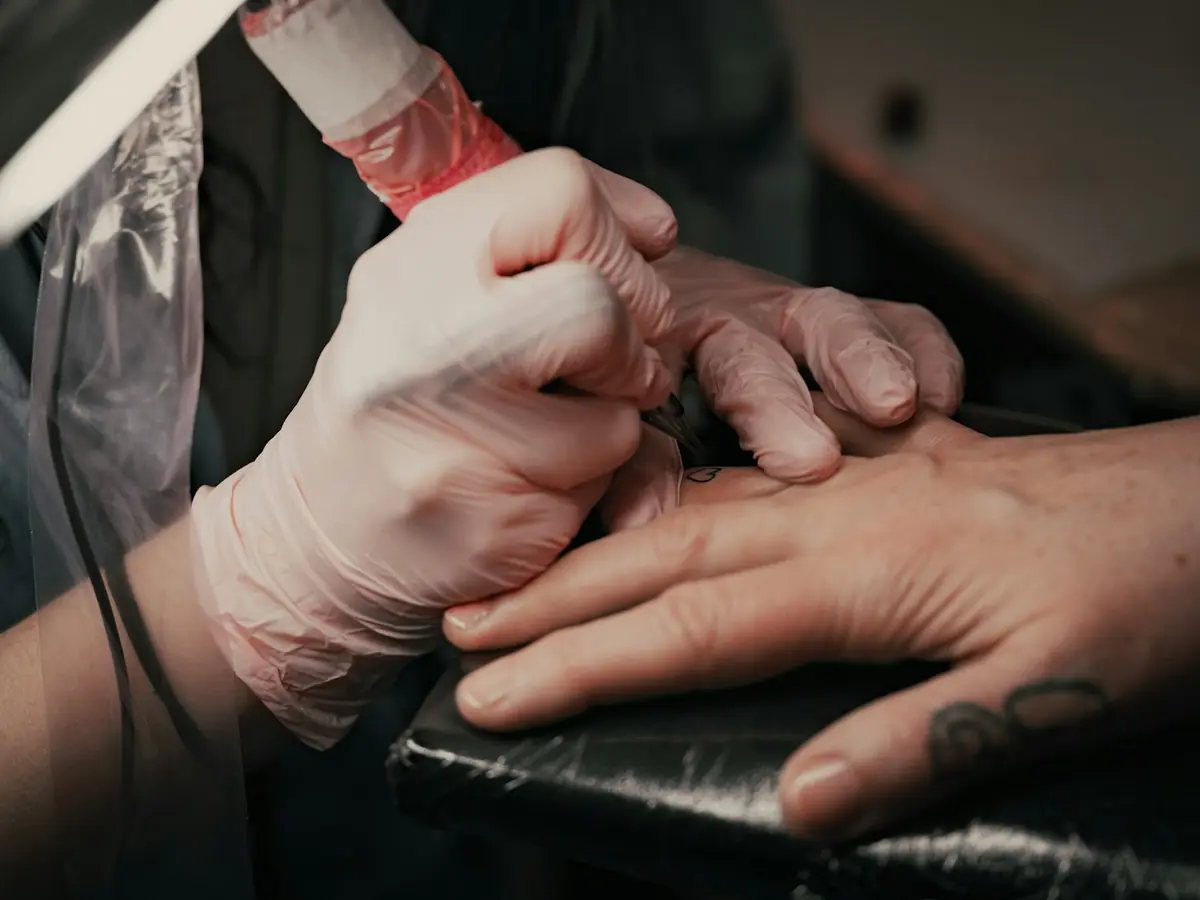
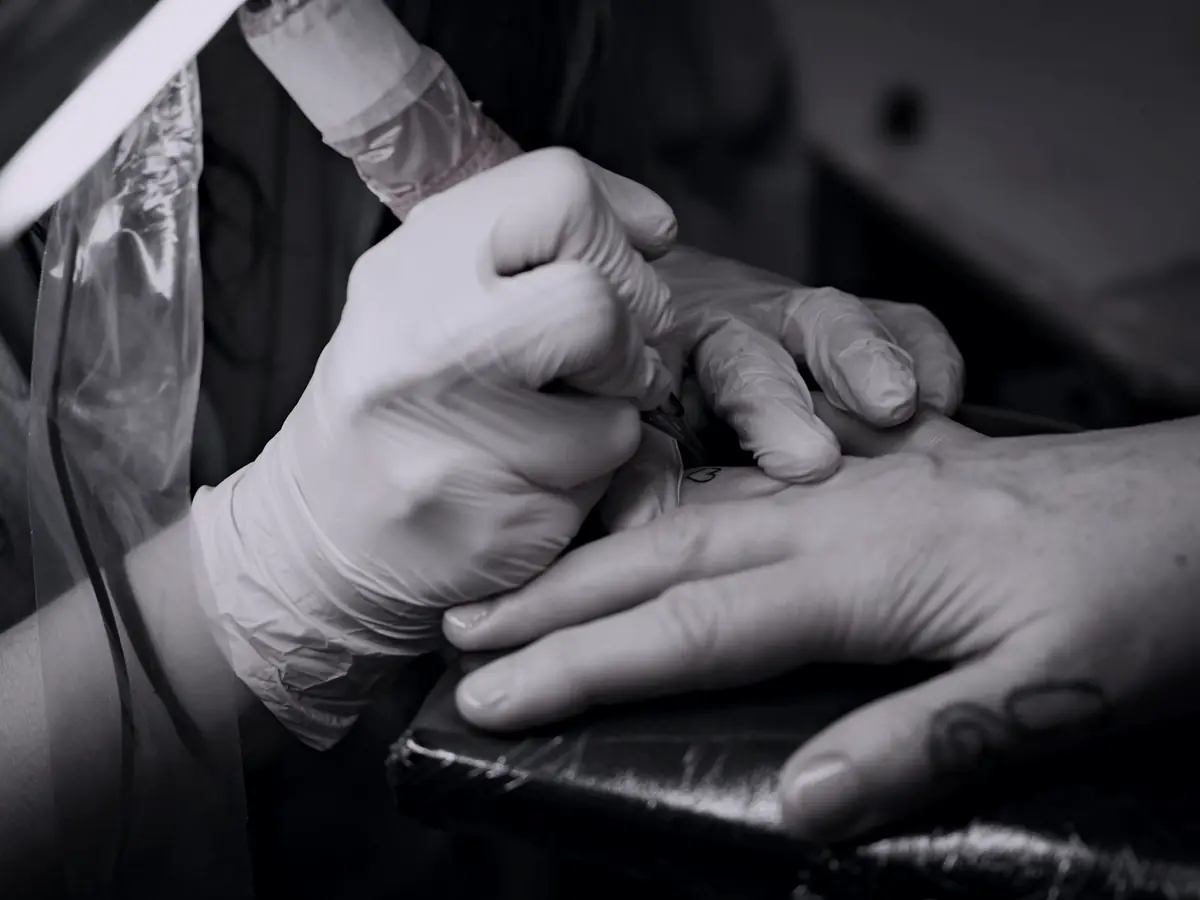
Bojë: finish-review fixes
- Cleaner stencil traces for Dren and Sara (Sara's photo cropped to the script)
- Gallery photos with neon/pink/red regraded to the ink palette
- Flash sheets: 'Ref.' corner plate instead of an eyebrow number
- Mobile menu: scrim, page behind it inert
- Form: each error under its own field, red survives focus
- Two-column gallery on phones; flash-day CTA and gallery heading reworded

Claude-Session: https://claude.ai/code/session_01Chcy6Aqqrefd6Y6fiSQRbP

diff --git a/work/boje-tattoo/index.html b/work/boje-tattoo/index.html
@@ -182,6 +182,7 @@
     <p class="drawer__note" data-i18n="drawer.note">Tue–Sat 11:00–20:00 · Rruga Pjetër Bogdani 14, Blloku</p>
   </div>
 </header>
+<div class="scrim" id="scrim" hidden></div>
 
 <main id="main">
   <section class="hero" id="top" aria-labelledby="hero-title" data-src="media/hero.mp4" data-src-phone="media/hero-m.mp4">
@@ -300,8 +301,8 @@
         </article>
         <article class="artist reveal" id="artist-sara">
           <figure class="lift" data-lift>
-            <img class="lift__photo" src="img/sara-600.webp" srcset="img/sara-600.webp 600w, img/sara-1200.webp 1200w" sizes="(min-width: 980px) 24vw, 92vw" width="1200" height="960" loading="lazy" decoding="async" alt="Healed micro script reading 'music' on the back of a shoulder" data-i18n-attr="alt:sara.alt">
-            <div class="lift__tissue" aria-hidden="true"><img src="img/stencil-sara.webp" width="800" height="640" alt="" loading="lazy" decoding="async"></div>
+            <img class="lift__photo" src="img/sara-600.webp" srcset="img/sara-600.webp 600w, img/sara-840.webp 840w" sizes="(min-width: 980px) 24vw, 92vw" width="840" height="672" loading="lazy" decoding="async" alt="Healed micro script reading 'music' on the back of a shoulder" data-i18n-attr="alt:sara.alt">
+            <div class="lift__tissue" aria-hidden="true"><img src="img/stencil-sara.webp" width="840" height="672" alt="" loading="lazy" decoding="async"></div>
             <span class="tape tape--tl" aria-hidden="true"></span><span class="tape tape--tr" aria-hidden="true"></span>
             <button type="button" class="lift__btn" aria-pressed="false"><span data-i18n="lift.up">Lift the stencil</span></button>
           </figure>
@@ -328,14 +329,14 @@
       </div>
       <ul class="wall" id="wall">
         <!-- Each flash: the drawing (symbol id), its number, name, size and price. Names and texts are in content.js. -->
-        <li class="sheet reveal" data-flash="01" data-price="80"><span class="tape tape--tl" aria-hidden="true"></span><svg class="sheet__art" viewBox="0 0 200 240" role="img" aria-labelledby="fl01"><use href="#f-olive"/></svg><div class="sheet__meta"><span class="sheet__n">№ 01</span><h3 id="fl01" data-i18n="fl.01">Olive sprig</h3><p><span data-i18n="fl.01s">8 cm · forearm or ribs</span><b>€80</b></p></div><a class="sheet__claim" target="_blank" rel="noopener" href="https://wa.me/355685727406?text=Hi%20Boj%C3%AB%2C%20I%27d%20like%20to%20claim%20flash%20%E2%84%96%2001%20(Olive%20sprig)."><span data-i18n="fl.claim">Claim on WhatsApp</span><svg class="ico" aria-hidden="true"><use href="#i-arrow"/></svg></a></li>
-        <li class="sheet reveal" data-flash="02" data-price="60"><span class="tape tape--tr" aria-hidden="true"></span><svg class="sheet__art" viewBox="0 0 200 240" role="img" aria-labelledby="fl02"><use href="#f-moon"/></svg><div class="sheet__meta"><span class="sheet__n">№ 02</span><h3 id="fl02" data-i18n="fl.02">Crescent &amp; stars</h3><p><span data-i18n="fl.02s">5 cm · wrist or ankle</span><b>€60</b></p></div><a class="sheet__claim" target="_blank" rel="noopener" href="https://wa.me/355685727406?text=Hi%20Boj%C3%AB%2C%20I%27d%20like%20to%20claim%20flash%20%E2%84%96%2002%20(Crescent%20%26%20stars)."><span data-i18n="fl.claim">Claim on WhatsApp</span><svg class="ico" aria-hidden="true"><use href="#i-arrow"/></svg></a></li>
-        <li class="sheet reveal" data-flash="03" data-price="110"><span class="tape tape--tl" aria-hidden="true"></span><svg class="sheet__art" viewBox="0 0 200 240" role="img" aria-labelledby="fl03"><use href="#f-dagger"/></svg><div class="sheet__meta"><span class="sheet__n">№ 03</span><h3 id="fl03" data-i18n="fl.03">Dagger</h3><p><span data-i18n="fl.03s">10 cm · forearm or calf</span><b>€110</b></p></div><a class="sheet__claim" target="_blank" rel="noopener" href="https://wa.me/355685727406?text=Hi%20Boj%C3%AB%2C%20I%27d%20like%20to%20claim%20flash%20%E2%84%96%2003%20(Dagger)."><span data-i18n="fl.claim">Claim on WhatsApp</span><svg class="ico" aria-hidden="true"><use href="#i-arrow"/></svg></a></li>
-        <li class="sheet reveal" data-flash="04" data-price="130"><span class="tape tape--tr" aria-hidden="true"></span><svg class="sheet__art" viewBox="0 0 200 240" role="img" aria-labelledby="fl04"><use href="#f-snake"/></svg><div class="sheet__meta"><span class="sheet__n">№ 04</span><h3 id="fl04" data-i18n="fl.04">Snake</h3><p><span data-i18n="fl.04s">12 cm · upper arm or thigh</span><b>€130</b></p></div><a class="sheet__claim" target="_blank" rel="noopener" href="https://wa.me/355685727406?text=Hi%20Boj%C3%AB%2C%20I%27d%20like%20to%20claim%20flash%20%E2%84%96%2004%20(Snake)."><span data-i18n="fl.claim">Claim on WhatsApp</span><svg class="ico" aria-hidden="true"><use href="#i-arrow"/></svg></a></li>
-        <li class="sheet reveal" data-flash="05" data-price="75"><span class="tape tape--tl" aria-hidden="true"></span><svg class="sheet__art" viewBox="0 0 200 240" role="img" aria-labelledby="fl05"><use href="#f-eye"/></svg><div class="sheet__meta"><span class="sheet__n">№ 05</span><h3 id="fl05" data-i18n="fl.05">Watching eye</h3><p><span data-i18n="fl.05s">6 cm · nape or sternum</span><b>€75</b></p></div><a class="sheet__claim" target="_blank" rel="noopener" href="https://wa.me/355685727406?text=Hi%20Boj%C3%AB%2C%20I%27d%20like%20to%20claim%20flash%20%E2%84%96%2005%20(Watching%20eye)."><span data-i18n="fl.claim">Claim on WhatsApp</span><svg class="ico" aria-hidden="true"><use href="#i-arrow"/></svg></a></li>
-        <li class="sheet reveal" data-flash="06" data-price="70"><span class="tape tape--tr" aria-hidden="true"></span><svg class="sheet__art" viewBox="0 0 200 240" role="img" aria-labelledby="fl06"><use href="#f-ionian"/></svg><div class="sheet__meta"><span class="sheet__n">№ 06</span><h3 id="fl06" data-i18n="fl.06">Ionian sun</h3><p><span data-i18n="fl.06s">7 cm · ankle or forearm</span><b>€70</b></p></div><a class="sheet__claim" target="_blank" rel="noopener" href="https://wa.me/355685727406?text=Hi%20Boj%C3%AB%2C%20I%27d%20like%20to%20claim%20flash%20%E2%84%96%2006%20(Ionian%20sun)."><span data-i18n="fl.claim">Claim on WhatsApp</span><svg class="ico" aria-hidden="true"><use href="#i-arrow"/></svg></a></li>
-        <li class="sheet reveal" data-flash="07" data-price="100"><span class="tape tape--tl" aria-hidden="true"></span><svg class="sheet__art" viewBox="0 0 200 240" role="img" aria-labelledby="fl07"><use href="#f-peaks"/></svg><div class="sheet__meta"><span class="sheet__n">№ 07</span><h3 id="fl07" data-i18n="fl.07">Valbona peaks</h3><p><span data-i18n="fl.07s">9 cm · forearm or shoulder</span><b>€100</b></p></div><a class="sheet__claim" target="_blank" rel="noopener" href="https://wa.me/355685727406?text=Hi%20Boj%C3%AB%2C%20I%27d%20like%20to%20claim%20flash%20%E2%84%96%2007%20(Valbona%20peaks)."><span data-i18n="fl.claim">Claim on WhatsApp</span><svg class="ico" aria-hidden="true"><use href="#i-arrow"/></svg></a></li>
-        <li class="sheet reveal" data-flash="08" data-price="120"><span class="tape tape--tr" aria-hidden="true"></span><svg class="sheet__art" viewBox="0 0 200 240" role="img" aria-labelledby="fl08"><use href="#f-moth"/></svg><div class="sheet__meta"><span class="sheet__n">№ 08</span><h3 id="fl08" data-i18n="fl.08">Night moth</h3><p><span data-i18n="fl.08s">10 cm · sternum or back</span><b>€120</b></p></div><a class="sheet__claim" target="_blank" rel="noopener" href="https://wa.me/355685727406?text=Hi%20Boj%C3%AB%2C%20I%27d%20like%20to%20claim%20flash%20%E2%84%96%2008%20(Night%20moth)."><span data-i18n="fl.claim">Claim on WhatsApp</span><svg class="ico" aria-hidden="true"><use href="#i-arrow"/></svg></a></li>
+        <li class="sheet reveal" data-flash="01" data-price="80"><span class="tape tape--tl" aria-hidden="true"></span><svg class="sheet__art" viewBox="0 0 200 240" role="img" aria-labelledby="fl01"><use href="#f-olive"/></svg><span class="sheet__ref">Ref. 01</span><div class="sheet__meta"><h3 id="fl01" data-i18n="fl.01">Olive sprig</h3><p><span data-i18n="fl.01s">8 cm · forearm or ribs</span><b>€80</b></p></div><a class="sheet__claim" target="_blank" rel="noopener" href="https://wa.me/355685727406?text=Hi%20Boj%C3%AB%2C%20I%27d%20like%20to%20claim%20flash%20%E2%84%96%2001%20(Olive%20sprig)."><span data-i18n="fl.claim">Claim on WhatsApp</span><svg class="ico" aria-hidden="true"><use href="#i-arrow"/></svg></a></li>
+        <li class="sheet reveal" data-flash="02" data-price="60"><span class="tape tape--tr" aria-hidden="true"></span><svg class="sheet__art" viewBox="0 0 200 240" role="img" aria-labelledby="fl02"><use href="#f-moon"/></svg><span class="sheet__ref">Ref. 02</span><div class="sheet__meta"><h3 id="fl02" data-i18n="fl.02">Crescent &amp; stars</h3><p><span data-i18n="fl.02s">5 cm · wrist or ankle</span><b>€60</b></p></div><a class="sheet__claim" target="_blank" rel="noopener" href="https://wa.me/355685727406?text=Hi%20Boj%C3%AB%2C%20I%27d%20like%20to%20claim%20flash%20%E2%84%96%2002%20(Crescent%20%26%20stars)."><span data-i18n="fl.claim">Claim on WhatsApp</span><svg class="ico" aria-hidden="true"><use href="#i-arrow"/></svg></a></li>
+        <li class="sheet reveal" data-flash="03" data-price="110"><span class="tape tape--tl" aria-hidden="true"></span><svg class="sheet__art" viewBox="0 0 200 240" role="img" aria-labelledby="fl03"><use href="#f-dagger"/></svg><span class="sheet__ref">Ref. 03</span><div class="sheet__meta"><h3 id="fl03" data-i18n="fl.03">Dagger</h3><p><span data-i18n="fl.03s">10 cm · forearm or calf</span><b>€110</b></p></div><a class="sheet__claim" target="_blank" rel="noopener" href="https://wa.me/355685727406?text=Hi%20Boj%C3%AB%2C%20I%27d%20like%20to%20claim%20flash%20%E2%84%96%2003%20(Dagger)."><span data-i18n="fl.claim">Claim on WhatsApp</span><svg class="ico" aria-hidden="true"><use href="#i-arrow"/></svg></a></li>
+        <li class="sheet reveal" data-flash="04" data-price="130"><span class="tape tape--tr" aria-hidden="true"></span><svg class="sheet__art" viewBox="0 0 200 240" role="img" aria-labelledby="fl04"><use href="#f-snake"/></svg><span class="sheet__ref">Ref. 04</span><div class="sheet__meta"><h3 id="fl04" data-i18n="fl.04">Snake</h3><p><span data-i18n="fl.04s">12 cm · upper arm or thigh</span><b>€130</b></p></div><a class="sheet__claim" target="_blank" rel="noopener" href="https://wa.me/355685727406?text=Hi%20Boj%C3%AB%2C%20I%27d%20like%20to%20claim%20flash%20%E2%84%96%2004%20(Snake)."><span data-i18n="fl.claim">Claim on WhatsApp</span><svg class="ico" aria-hidden="true"><use href="#i-arrow"/></svg></a></li>
+        <li class="sheet reveal" data-flash="05" data-price="75"><span class="tape tape--tl" aria-hidden="true"></span><svg class="sheet__art" viewBox="0 0 200 240" role="img" aria-labelledby="fl05"><use href="#f-eye"/></svg><span class="sheet__ref">Ref. 05</span><div class="sheet__meta"><h3 id="fl05" data-i18n="fl.05">Watching eye</h3><p><span data-i18n="fl.05s">6 cm · nape or sternum</span><b>€75</b></p></div><a class="sheet__claim" target="_blank" rel="noopener" href="https://wa.me/355685727406?text=Hi%20Boj%C3%AB%2C%20I%27d%20like%20to%20claim%20flash%20%E2%84%96%2005%20(Watching%20eye)."><span data-i18n="fl.claim">Claim on WhatsApp</span><svg class="ico" aria-hidden="true"><use href="#i-arrow"/></svg></a></li>
+        <li class="sheet reveal" data-flash="06" data-price="70"><span class="tape tape--tr" aria-hidden="true"></span><svg class="sheet__art" viewBox="0 0 200 240" role="img" aria-labelledby="fl06"><use href="#f-ionian"/></svg><span class="sheet__ref">Ref. 06</span><div class="sheet__meta"><h3 id="fl06" data-i18n="fl.06">Ionian sun</h3><p><span data-i18n="fl.06s">7 cm · ankle or forearm</span><b>€70</b></p></div><a class="sheet__claim" target="_blank" rel="noopener" href="https://wa.me/355685727406?text=Hi%20Boj%C3%AB%2C%20I%27d%20like%20to%20claim%20flash%20%E2%84%96%2006%20(Ionian%20sun)."><span data-i18n="fl.claim">Claim on WhatsApp</span><svg class="ico" aria-hidden="true"><use href="#i-arrow"/></svg></a></li>
+        <li class="sheet reveal" data-flash="07" data-price="100"><span class="tape tape--tl" aria-hidden="true"></span><svg class="sheet__art" viewBox="0 0 200 240" role="img" aria-labelledby="fl07"><use href="#f-peaks"/></svg><span class="sheet__ref">Ref. 07</span><div class="sheet__meta"><h3 id="fl07" data-i18n="fl.07">Valbona peaks</h3><p><span data-i18n="fl.07s">9 cm · forearm or shoulder</span><b>€100</b></p></div><a class="sheet__claim" target="_blank" rel="noopener" href="https://wa.me/355685727406?text=Hi%20Boj%C3%AB%2C%20I%27d%20like%20to%20claim%20flash%20%E2%84%96%2007%20(Valbona%20peaks)."><span data-i18n="fl.claim">Claim on WhatsApp</span><svg class="ico" aria-hidden="true"><use href="#i-arrow"/></svg></a></li>
+        <li class="sheet reveal" data-flash="08" data-price="120"><span class="tape tape--tr" aria-hidden="true"></span><svg class="sheet__art" viewBox="0 0 200 240" role="img" aria-labelledby="fl08"><use href="#f-moth"/></svg><span class="sheet__ref">Ref. 08</span><div class="sheet__meta"><h3 id="fl08" data-i18n="fl.08">Night moth</h3><p><span data-i18n="fl.08s">10 cm · sternum or back</span><b>€120</b></p></div><a class="sheet__claim" target="_blank" rel="noopener" href="https://wa.me/355685727406?text=Hi%20Boj%C3%AB%2C%20I%27d%20like%20to%20claim%20flash%20%E2%84%96%2008%20(Night%20moth)."><span data-i18n="fl.claim">Claim on WhatsApp</span><svg class="ico" aria-hidden="true"><use href="#i-arrow"/></svg></a></li>
       </ul>
 
       <div class="prices" id="prices">
@@ -358,7 +359,7 @@
         <div class="prices__side">
           <h3 data-i18n="flashday.title">Flash day · first Saturday of the month</h3>
           <p data-i18n="flashday.p">Sara draws a new sheet of small designs, €60 each, first come first served from 12:00. Bring ID; we stop taking names at 18:00.</p>
-          <a class="btn btn--primary" data-wa="prices" href="https://wa.me/355685727406?text=Hi%20Boj%C3%AB%2C%20I%27d%20like%20a%20tattoo%20consultation." target="_blank" rel="noopener"><svg class="ico" aria-hidden="true"><use href="#i-wa"/></svg><span data-i18n="price.cta">Ask for a price</span></a>
+          <a class="btn btn--primary" data-wa-flashday href="https://wa.me/355685727406?text=Hi%20Boj%C3%AB%2C%20please%20save%20me%20a%20spot%20on%20the%20next%20flash%20day." target="_blank" rel="noopener"><svg class="ico" aria-hidden="true"><use href="#i-wa"/></svg><span data-i18n="price.cta">Save a spot on flash day</span></a>
         </div>
       </div>
     </div>
@@ -367,8 +368,8 @@
   <section class="work" id="work" aria-labelledby="work-title">
     <div class="wrap">
       <div class="section-head section-head--split">
-        <h2 id="work-title" data-i18n="work.title">Healed, not fresh</h2>
-        <p class="lede" data-i18n="work.lead">Fresh tattoos always look sharp. We show work weeks or months later, and sessions in progress, so you see how the lines really settle.</p>
+        <h2 id="work-title" data-i18n="work.title">Healed work, and the sessions behind it</h2>
+        <p class="lede" data-i18n="work.lead">Fresh tattoos always look sharp. So next to healed pieces we show sessions in progress and the drawings behind them, so you see how the lines are made and how they settle.</p>
       </div>
       <div class="filters" role="group" aria-label="Filter the gallery" data-i18n-attr="aria-label:work.filter">
         <button type="button" class="chip" data-filter="all" aria-pressed="true" data-i18n="work.all">All</button>
@@ -422,12 +423,14 @@
         <form class="form" id="form" novalidate>
           <div class="field">
             <label for="f-name" data-i18n="form.name">Your name</label>
-            <input id="f-name" name="name" type="text" autocomplete="name" required>
+            <input id="f-name" name="name" type="text" autocomplete="name" required aria-describedby="f-name-err">
+            <small class="field__err" id="f-name-err" hidden></small>
           </div>
           <div class="field">
             <label for="f-contact" data-i18n="form.contact">Email or WhatsApp number</label>
-            <input id="f-contact" name="contact" type="text" autocomplete="email" inputmode="email" required aria-describedby="f-contact-hint">
+            <input id="f-contact" name="contact" type="text" autocomplete="email" inputmode="email" required aria-describedby="f-contact-hint f-contact-err">
             <small id="f-contact-hint" class="hint" data-i18n="form.contactHint">We only use it to reply to you.</small>
+            <small class="field__err" id="f-contact-err" hidden></small>
           </div>
           <div class="field-row">
             <div class="field">
@@ -450,7 +453,8 @@
           </div>
           <div class="field">
             <label for="f-msg" data-i18n="form.msg">Your idea</label>
-            <textarea id="f-msg" name="message" rows="4" required></textarea>
+            <textarea id="f-msg" name="message" rows="4" required aria-describedby="f-msg-err"></textarea>
+            <small class="field__err" id="f-msg-err" hidden></small>
           </div>
           <p class="form__err" id="form-err" role="alert" hidden></p>
           <div class="form__actions">

diff --git a/work/boje-tattoo/content.js b/work/boje-tattoo/content.js
@@ -10,12 +10,14 @@ window.BOJE = {
   msg: {
     en: {
       hello: "Hi Bojë, I'd like a tattoo consultation.",
+      flashday: 'Hi Bojë, please save me a spot on the next flash day.',
       artist: "Hi Bojë, I'd like a consultation with {name}.",
       flash: "Hi Bojë, I'd like to claim flash № {n} ({title}).",
       form: "Hi Bojë, I'd like a tattoo consultation.\nName: {name}\nArtist: {artist}\nPreferred date: {date}\nPlacement & size: {placement}\nIdea: {message}"
     },
     sq: {
       hello: 'Përshëndetje Bojë, dua një konsultë për tatuazh.',
+      flashday: 'Përshëndetje Bojë, më ruani një vend për ditën e ardhshme të flash-it.',
       artist: 'Përshëndetje Bojë, dua një konsultë me {name}.',
       flash: 'Përshëndetje Bojë, dua të rezervoj flash-in № {n} ({title}).',
       form: 'Përshëndetje Bojë, dua një konsultë për tatuazh.\nEmri: {name}\nArtisti: {artist}\nData e preferuar: {date}\nVendi & madhësia: {placement}\nIdeja: {message}'
@@ -69,11 +71,11 @@ window.BOJE = {
       'price.r4': 'Blackwork & large pieces', 'price.r4s': 'half day / full day session',
       'price.r5': 'Deposit', 'price.r5s': 'holds your date, comes off the price',
       'price.r6': 'Touch-up', 'price.r6s': 'within 3 months of your session', 'price.free': 'Free',
-      'price.cta': 'Ask for a price',
+      'price.cta': 'Save a spot on flash day',
       'flashday.title': 'Flash day · first Saturday of the month',
       'flashday.p': 'Sara draws a new sheet of small designs, €60 each, first come first served from 12:00. Bring ID; we stop taking names at 18:00.',
-      'work.title': 'Healed, not fresh',
-      'work.lead': 'Fresh tattoos always look sharp. We show work weeks or months later, and sessions in progress, so you see how the lines really settle.',
+      'work.title': 'Healed work, and the sessions behind it',
+      'work.lead': 'Fresh tattoos always look sharp. So next to healed pieces we show sessions in progress and the drawings behind them, so you see how the lines are made and how they settle.',
       'work.filter': 'Filter the gallery', 'work.all': 'All', 'work.fine': 'Fine-line', 'work.black': 'Blackwork', 'work.studio': 'In the studio',
       'g.back': 'Blackwork back piece with mirrored ornamental bands, by Dren',
       'g.machine': 'Fine-line session in progress on a forearm, by Lea',
@@ -101,7 +103,8 @@ window.BOJE = {
       'form.send': 'Send request', 'form.sending': 'Sending…', 'form.wa': 'Send on WhatsApp instead',
       'form.fine': 'Sent securely through FormSubmit. See our', 'form.privacy': 'privacy notice',
       'form.doneT': 'Request sent', 'form.doneP': 'Thank you. Your artist will reply within a day. For anything sooner, message us on WhatsApp.',
-      'form.errReq': 'Please add your name, a way to reach you and your idea, then send again.',
+      'form.errReq': 'A few fields need a look before this can be sent.',
+      'err.name': 'Add your name so your artist knows who to reply to.', 'err.contact': 'Add an email or a WhatsApp number.', 'err.msg': 'Describe your idea in a few words: what, where, roughly how big.',
       'form.errContact': 'That does not look like an email or a phone number. Check it and send again.',
       'form.errNet': 'The request could not be sent. Check your connection, or send it on WhatsApp instead.',
       'visit.title': 'Find the studio', 'visit.addr': 'Blloku, Tirana 1001 · first floor, ring “Bojë”',
@@ -159,11 +162,11 @@ window.BOJE = {
       'price.r4': 'Blackwork & punë të mëdha', 'price.r4s': 'seancë gjysmë dite / ditë e plotë',
       'price.r5': 'Paradhënie', 'price.r5s': 'mban datën, zbritet nga çmimi',
       'price.r6': 'Ritokim', 'price.r6s': 'brenda 3 muajve nga seanca', 'price.free': 'Falas',
-      'price.cta': 'Pyet për çmimin',
+      'price.cta': 'Zë një vend për ditën e flash-it',
       'flashday.title': 'Dita e flash-it · e shtuna e parë e muajit',
       'flashday.p': 'Sara vizaton një fletë të re me dizajne të vogla, 60 € secili, me radhë nga ora 12:00. Merr me vete dokumentin; emrat i mbyllim në 18:00.',
-      'work.title': 'Të shëruara, jo të freskëta',
-      'work.lead': 'Tatuazhet e freskëta duken gjithmonë të mprehta. Ne tregojmë punë javë ose muaj më vonë, dhe seanca në punë, që të shohësh si vendosen vërtet vijat.',
+      'work.title': 'Punë të shëruara, dhe seancat pas tyre',
+      'work.lead': 'Tatuazhet e freskëta duken gjithmonë të mprehta. Ndaj pranë punëve të shëruara tregojmë seanca në punë dhe vizatimet pas tyre, që të shohësh si bëhen vijat dhe si vendosen.',
       'work.filter': 'Filtro galerinë', 'work.all': 'Të gjitha', 'work.fine': 'Fine-line', 'work.black': 'Blackwork', 'work.studio': 'Në studio',
       'g.back': 'Blackwork në shpinë me breza ornamentalë simetrikë, nga Dreni',
       'g.machine': 'Seancë fine-line në punë mbi parakrah, nga Lea',
@@ -191,7 +194,8 @@ window.BOJE = {
       'form.send': 'Dërgo kërkesën', 'form.sending': 'Po dërgohet…', 'form.wa': 'Dërgoje në WhatsApp',
       'form.fine': 'Dërgohet në mënyrë të sigurt përmes FormSubmit. Shiko', 'form.privacy': 'njoftimin e privatësisë',
       'form.doneT': 'Kërkesa u dërgua', 'form.doneP': 'Faleminderit. Artisti do të përgjigjet brenda një dite. Për diçka më të shpejtë, na shkruaj në WhatsApp.',
-      'form.errReq': 'Shto emrin, një mënyrë për të të kontaktuar dhe idenë, pastaj dërgoje përsëri.',
+      'form.errReq': 'Disa fusha duhen parë para se të dërgohet.',
+      'err.name': 'Shto emrin, që artisti të dijë kujt t’i përgjigjet.', 'err.contact': 'Shto një email ose numër WhatsApp.', 'err.msg': 'Përshkruaje idenë me pak fjalë: çfarë, ku, rreth sa e madhe.',
       'form.errContact': 'Kjo nuk duket si email apo numër telefoni. Kontrolloje dhe dërgoje përsëri.',
       'form.errNet': 'Kërkesa nuk u dërgua. Kontrollo lidhjen, ose dërgoje në WhatsApp.',
       'visit.title': 'Gjej studion', 'visit.addr': 'Blloku, Tiranë 1001 · kati i parë, zilja “Bojë”',

diff --git a/work/boje-tattoo/main.js b/work/boje-tattoo/main.js
@@ -30,6 +30,7 @@
     $$('.lang__btn').forEach(function (b) { b.setAttribute('aria-pressed', String(b.dataset.lang === lang)) })
     // WhatsApp links speak the visitor's language
     $$('[data-wa]').forEach(function (a) { a.href = wa(B.msg[lang].hello) })
+    $$('[data-wa-flashday]').forEach(function (a) { a.href = wa(B.msg[lang].flashday) })
     $$('[data-wa-artist]').forEach(function (a) { a.href = wa(fill(B.msg[lang].artist, { name: a.dataset.waArtist })) })
     $$('.sheet').forEach(function (li) {
       var n = li.dataset.flash, a = $('.sheet__claim', li)
@@ -41,10 +42,14 @@
   $$('.lang__btn').forEach(function (b) { b.addEventListener('click', function () { applyLang(b.dataset.lang, true) }) })
 
   // ── Header: menu drawer + current section ─────────────────────
-  var menuBtn = $('.nav__menu'), drawer = $('#drawer')
+  var menuBtn = $('.nav__menu'), drawer = $('#drawer'), scrim = $('#scrim')
+  var behind = ['main', '.foot', '.thumb-cta']
   function setMenu(open) {
     menuBtn.setAttribute('aria-expanded', String(open))
     drawer.hidden = !open
+    scrim.hidden = !open
+    // the page behind the open menu can't be tabbed into or clicked
+    behind.forEach(function (s) { var el = $(s); if (el) el.inert = open })
     $('.sr', menuBtn).textContent = t(open ? 'nav.close' : 'nav.menu')
     if (open) { var first = $('a', drawer); if (first) first.focus() }
   }
@@ -157,19 +162,27 @@
   var form = $('#form'), err = $('#form-err'), send = $('#form-send'), done = $('#form-done')
   var val = function (n) { return (form.elements[n].value || '').trim() }
   var looksLikeContact = function (s) { return /^[^\s@]+@[^\s@]+\.[^\s@]+$/.test(s) || /^\+?[\d\s()-]{7,}$/.test(s) }
-  function showErr(key, field) {
-    err.textContent = t(key); err.hidden = false
-    if (field) { field.setAttribute('aria-invalid', 'true'); field.focus() }
+  // Each field's error sits right under it (linked with aria-describedby); the box above the buttons only says that several need a look.
+  var ERR = { name: 'err.name', contact: 'err.contact', message: 'err.msg' }
+  var errEl = function (f) { return $('#' + f.id + '-err') }
+  function fieldErr(f, key) {
+    f.setAttribute('aria-invalid', 'true')
+    var e = errEl(f); if (e) { e.textContent = t(key); e.hidden = false }
   }
-  function clearErr() { err.hidden = true; $$('[aria-invalid]', form).forEach(function (f) { f.removeAttribute('aria-invalid') }) }
+  function clearField(f) { f.removeAttribute('aria-invalid'); var e = errEl(f); if (e) { e.hidden = true; e.textContent = '' } }
+  function showErr(key) { err.textContent = t(key); err.hidden = false }
+  function clearErr() { err.hidden = true; $$('[aria-invalid]', form).forEach(clearField) }
   function check() {
     clearErr()
-    var missing = ['name', 'contact', 'message'].filter(function (n) { return !val(n) })
-    if (missing.length) { missing.forEach(function (n) { form.elements[n].setAttribute('aria-invalid', 'true') }); showErr('form.errReq', form.elements[missing[0]]); return false }
-    if (!looksLikeContact(val('contact'))) { showErr('form.errContact', form.elements.contact); return false }
-    return true
+    var bad = []
+    Object.keys(ERR).forEach(function (n) { if (!val(n)) { fieldErr(form.elements[n], ERR[n]); bad.push(form.elements[n]) } })
+    if (val('contact') && !looksLikeContact(val('contact'))) { fieldErr(form.elements.contact, 'form.errContact'); bad.push(form.elements.contact) }
+    if (!bad.length) return true
+    if (bad.length > 1) showErr('form.errReq')
+    bad.sort(function (a, b) { return a.compareDocumentPosition(b) & 4 ? -1 : 1 })[0].focus()
+    return false
   }
-  $$('input, textarea', form).forEach(function (f) { f.addEventListener('input', function () { if (f.hasAttribute('aria-invalid') && f.value.trim()) f.removeAttribute('aria-invalid') }) })
+  $$('input, textarea', form).forEach(function (f) { f.addEventListener('input', function () { if (f.hasAttribute('aria-invalid') && f.value.trim()) clearField(f) }) })
 
   form.addEventListener('submit', function (e) {
     e.preventDefault()

diff --git a/work/boje-tattoo/style.css b/work/boje-tattoo/style.css
@@ -119,6 +119,8 @@ p { margin: 0; text-wrap: pretty; }
 /* Mobile drawer: a sheet that drops down from under the tape */
 .drawer { position: absolute; z-index: 1; top: calc(var(--nav-h) - 1px); left: 12px; right: 12px; padding: 28px 22px 22px; background: var(--sheet); border: 1px solid var(--line-soft); border-radius: 2px; box-shadow: 0 30px 60px -30px rgba(23, 21, 29, .55); transform-origin: 50% 0; animation: drop .5s var(--paper-ease); }
 .drawer[hidden] { display: none; }
+.scrim { position: fixed; inset: 0; z-index: 45; background: rgba(23, 21, 29, .62); -webkit-backdrop-filter: blur(2px); backdrop-filter: blur(2px); animation: fade .35s var(--ease); }
+.scrim[hidden] { display: none; }
 .drawer nav { display: grid; margin-bottom: 18px; }
 .drawer nav a { display: flex; align-items: center; min-height: 54px; border-bottom: 1px solid var(--line-soft); font: 400 1.6rem/1.1 var(--serif); letter-spacing: -.01em; text-decoration: none; transition: color .3s var(--ease), padding .3s var(--ease); }
 .drawer nav a:hover { color: var(--violet); padding-left: 6px; }
@@ -299,7 +301,7 @@ h2 { font-size: clamp(2.2rem, 1.4rem + 3vw, 4.25rem); }
 .sheet:hover { transform: translateY(-6px); box-shadow: 0 2px 2px rgba(0, 0, 0, .18), 0 40px 50px -28px rgba(0, 0, 0, .95); }
 .sheet__art { width: 100%; aspect-ratio: 200 / 240; padding: 14px 14px 0; color: var(--violet); }
 .sheet__meta { display: grid; gap: 4px; padding: 6px 18px 14px; }
-.sheet__n { font-size: .75rem; font-weight: 600; letter-spacing: .08em; color: var(--muted); font-variant-numeric: tabular-nums; }
+.sheet__ref { position: absolute; top: 14px; right: 14px; padding: 3px 7px; border: 1px solid rgba(76, 59, 194, .35); font-size: .75rem; font-weight: 600; letter-spacing: .03em; color: var(--violet-deep); font-variant-numeric: tabular-nums; }
 .sheet__meta h3 { font-size: 1.375rem; line-height: 1.1; letter-spacing: -.01em; }
 .sheet__meta p { display: flex; align-items: baseline; justify-content: space-between; gap: 10px; font-size: .875rem; color: var(--muted); }
 .sheet__meta b { font: 650 1.1875rem/1 var(--sans); letter-spacing: -.01em; color: var(--ink); font-variant-numeric: tabular-nums; }
@@ -346,6 +348,7 @@ h2 { font-size: clamp(2.2rem, 1.4rem + 3vw, 4.25rem); }
 .tile img { width: 100%; transition: transform .7s var(--ease), filter .7s var(--ease); filter: saturate(.85); }
 .tile:hover { transform: translateY(-3px) rotate(-.3deg); }
 .tile:hover img { transform: scale(1.025); filter: saturate(1); }
+@media (max-width: 640px) { .masonry { columns: 2; column-gap: 10px; } .masonry li { margin-bottom: 10px; } .tile { padding: 5px; } }
 
 /* Reviews */
 .reviews { padding: clamp(64px, 8vw, 120px) 0; border-top: 1px solid var(--line); overflow: hidden; }
@@ -378,7 +381,9 @@ h2 { font-size: clamp(2.2rem, 1.4rem + 3vw, 4.25rem); }
 .field input::placeholder, .field textarea::placeholder { color: #6E6A79; }
 .field input:hover, .field select:hover, .field textarea:hover { border-color: rgba(23, 21, 29, .38); }
 .field input:focus, .field select:focus, .field textarea:focus { outline: none; border-color: var(--violet); box-shadow: 0 0 0 3px rgba(76, 59, 194, .2); }
-.field [aria-invalid="true"] { border-color: #A3262E; box-shadow: 0 0 0 3px rgba(163, 38, 46, .14); }
+.field [aria-invalid="true"], .field [aria-invalid="true"]:focus { border-color: #A3262E; box-shadow: 0 0 0 3px rgba(163, 38, 46, .14); }
+.field__err { font-size: .875rem; font-weight: 500; color: #8A1F27; }
+.field__err[hidden] { display: none; }
 .hint { font-size: .8125rem; color: var(--muted); }
 .form__err { padding: 12px 14px; border: 1px solid rgba(163, 38, 46, .35); border-radius: 6px; background: #FBEFF0; color: #8A1F27; font-size: .9375rem; }
 .form__actions { display: flex; flex-wrap: wrap; gap: 12px; margin-top: 6px; }

diff --git a/work/boje-tattoo/.impeccable/surfaces/index-html.md b/work/boje-tattoo/.impeccable/surfaces/index-html.md
@@ -19,6 +19,6 @@ STORY: The visitor sees that this is a fine-line and blackwork studio in Blloku.
 
 FIRST VIEWPORT: Process footage plays full-bleed, graded to ink, behind a large taped tissue sheet with violet linework. Scrolling peels the sheet up and away while the film scrubs forward, and reverses when scrolling up. The headline slip is pinned bottom-left (bottom on phones): H1 "Fine-line & blackwork in Blloku, Tirana", one line of copy, a violet **Book a consultation on WhatsApp** button and a secondary "See flash & prices" link. The slip stays readable the whole time. A tissue header with the EN/SQ switch and a WhatsApp CTA sits on top.
 
-FORM: Stencil Sheets, the pick card (Impeccable's own top grounded candidate) chosen over the assigned Placement Atlas. seed:b13f99674d808cd0. Signature interaction: **lift the sheet**. Each artist and flash sheet's tissue lifts on its tape hinge (hover, tap or keyboard) to show the healed photo underneath. Motion grammar: tissue peels and settles with paper-like easing. Reduced motion: sheets stay lifted halfway, nothing is hidden, and the film is a still poster.
+FORM: Stencil Sheets, the pick card (Impeccable's own top grounded candidate) chosen over the assigned Placement Atlas. seed:b13f99674d808cd0. Signature interaction: **lift the sheet**. Each artist sheet's tissue lifts on its tape hinge (hover, tap or keyboard) to show the healed photo underneath. Amended after the finish review: flash sheets do not lift. A flash design is untattooed until someone claims it, so it has no healed photo to reveal. Flash sheets carry the hero's reference-plate system ("Ref. 0X") instead. Motion grammar: tissue peels and settles with paper-like easing. Reduced motion: sheets stay lifted halfway, nothing is hidden, and the film is a still poster.
 
 FINISH: unreviewed and undocumented is unfinished; this build ends with the finish review, the verdict, DESIGN.md, and every shipping raster carrying its provenance
